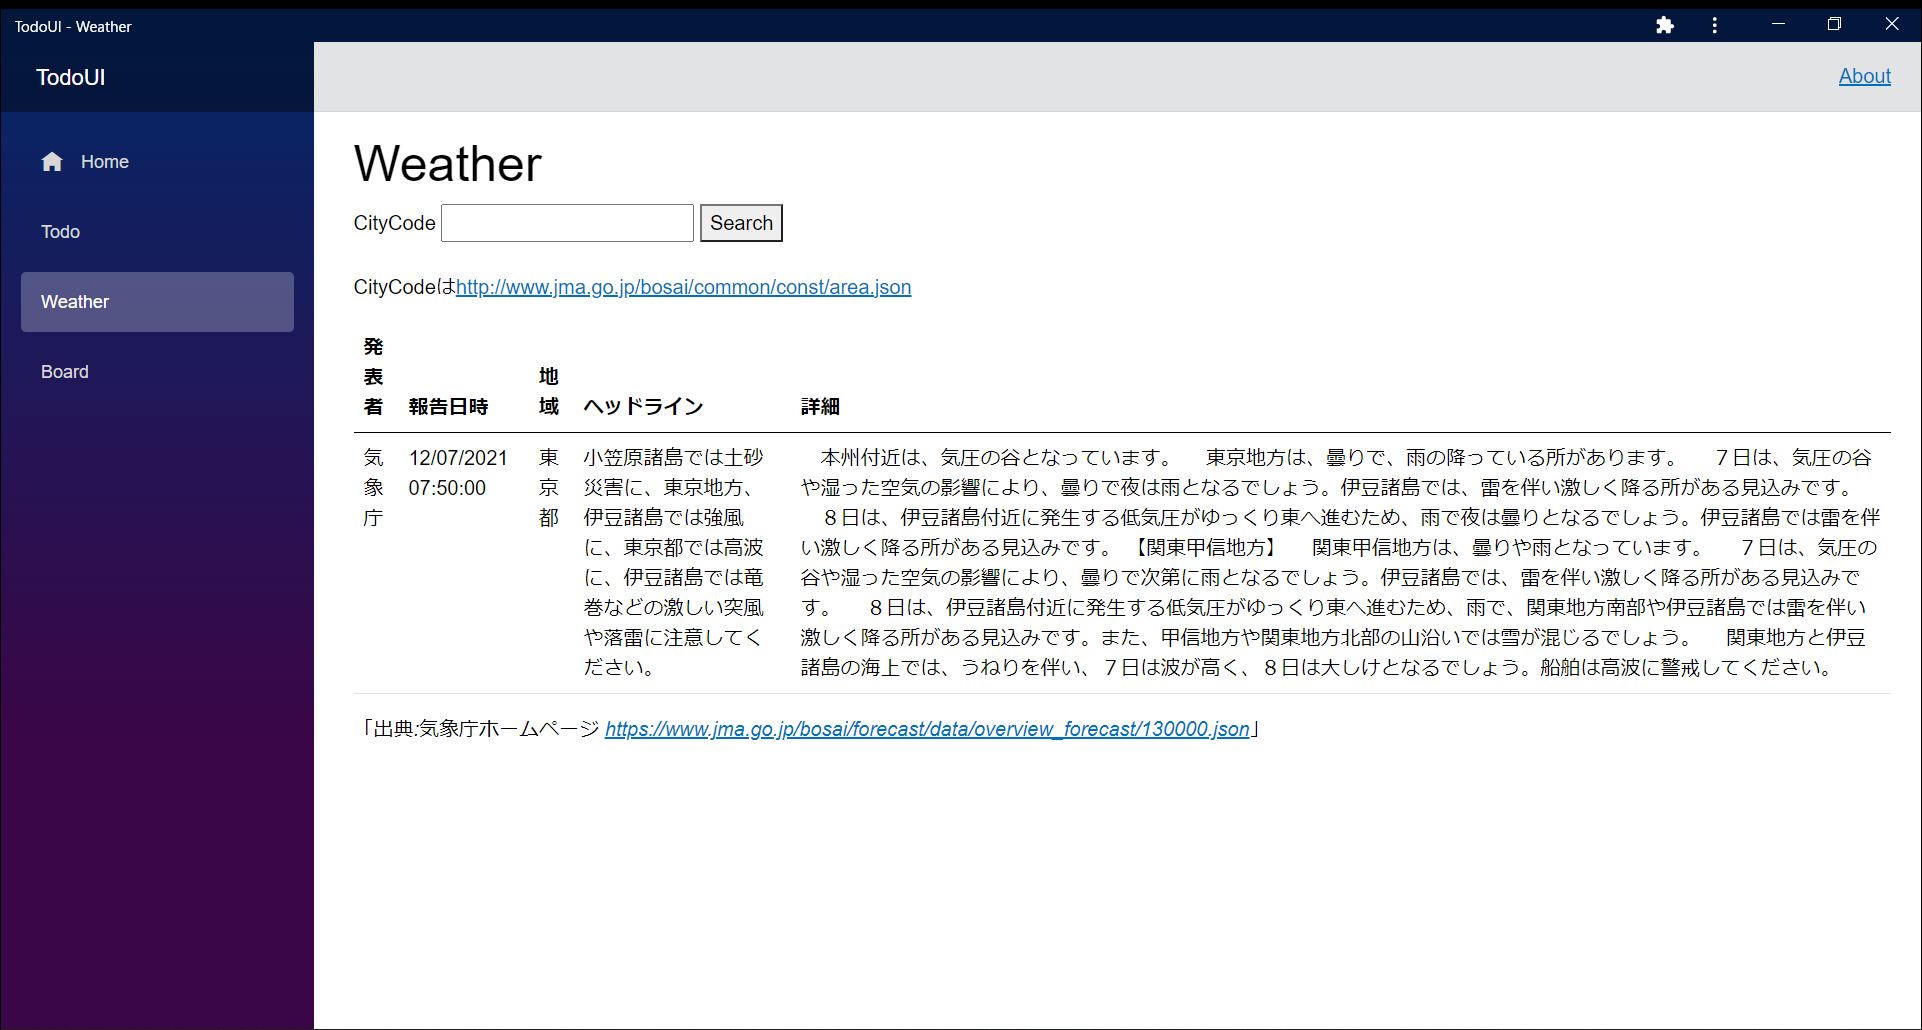
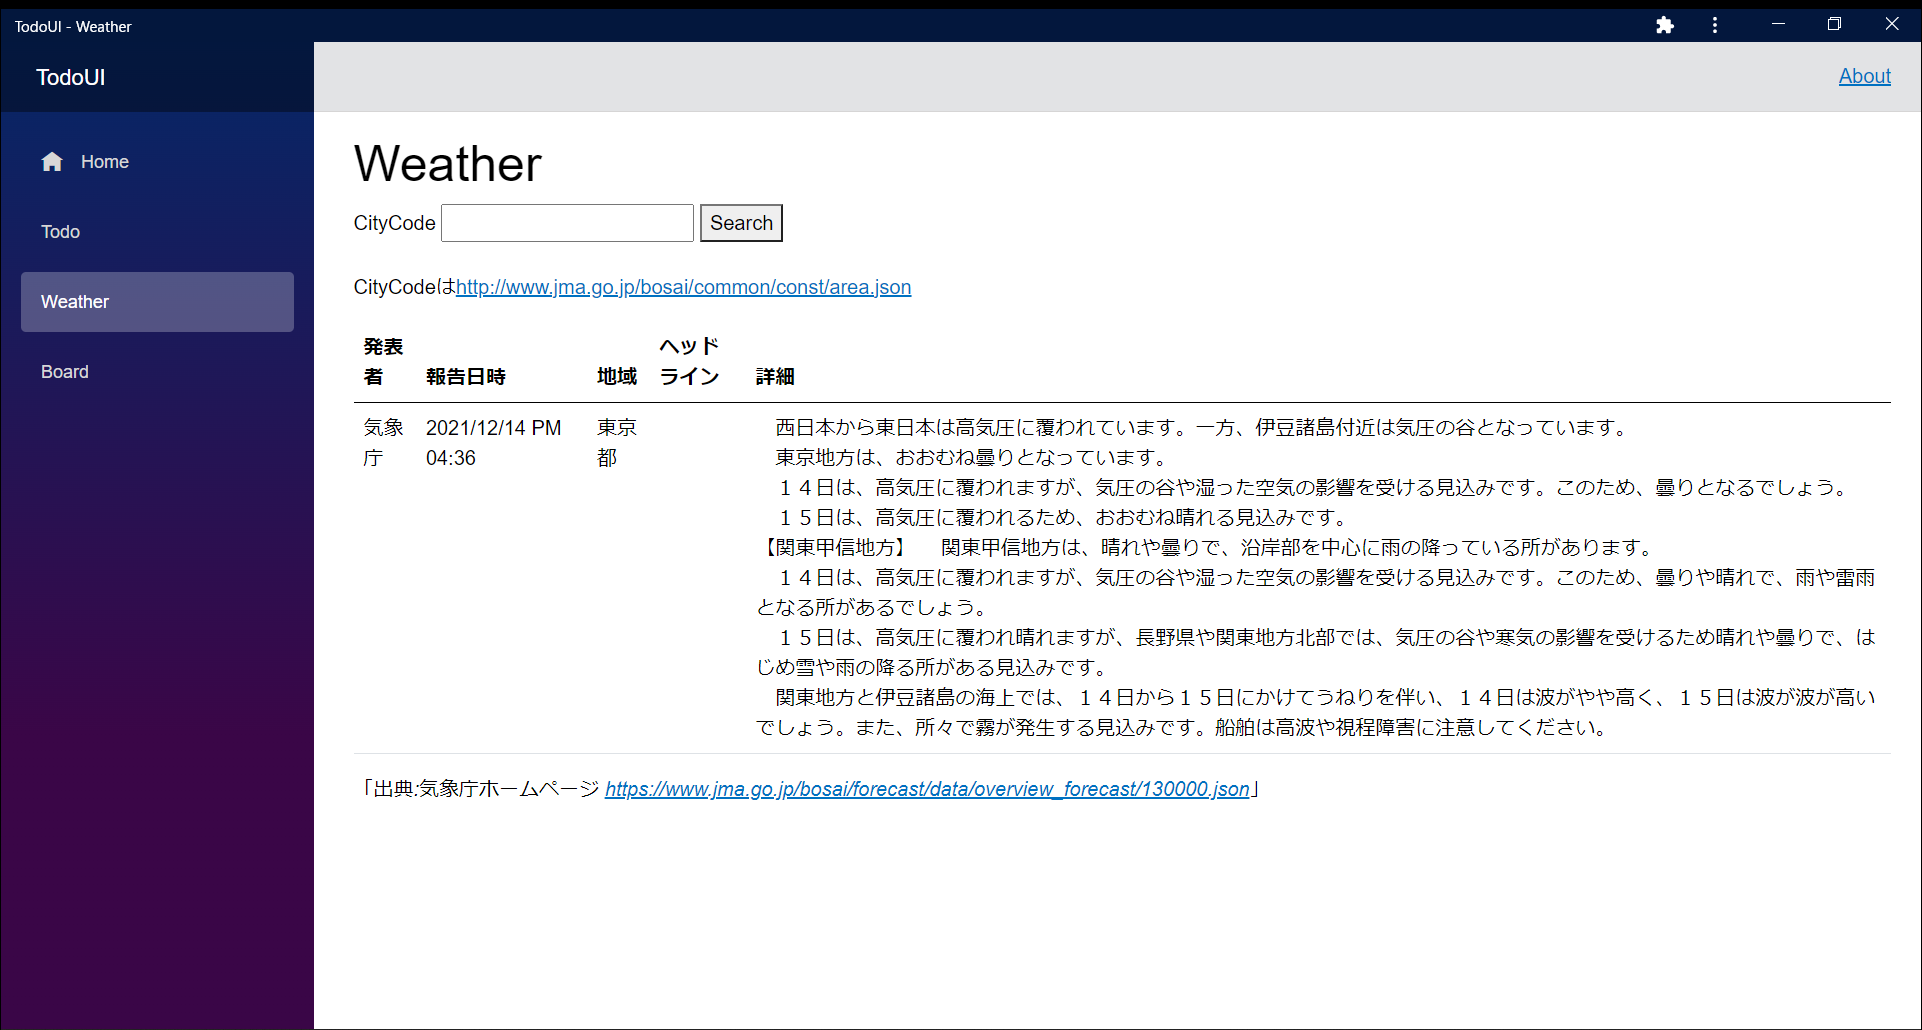
Weather Page Client Time Zone

diff --git a/TodoUI/wwwroot/clientIPAddr.js b/TodoUI/wwwroot/clientIPAddr.js
@@ -1,7 +1,3 @@
-export function clientTimezoneOffset() {
-    return new Date().getTimezoneOffset();
-}
-
 export function clientIPAddr() {
     return fetch('https://jsonip.com/')
         .then((response) => response.json())

diff --git a/TodoUI/wwwroot/clientTimezoneOffset.js b/TodoUI/wwwroot/clientTimezoneOffset.js
@@ -1,0 +1,3 @@
+export function clientTimezoneOffset() {
+    return new Date().getTimezoneOffset();
+}

diff --git a/TodoUI/Pages/Board.razor.cs b/TodoUI/Pages/Board.razor.cs
@@ -10,19 +10,19 @@ public class BoardBase : ComponentBase
 
     [Inject]
     IJSRuntime? JSRuntime { get; set; }
-    public TimeSpan? timeSpan;
+    public TimeSpan? timeSpan { get; set; } = null;
 
     protected override async Task OnAfterRenderAsync(bool firstRender)
     {
         if (firstRender)
         {
-            var module = await JSRuntime.InvokeAsync<IJSObjectReference>("import", "./Pages/Board.razor.js");
-            var Offset = await module.InvokeAsync<int>("clientTimezoneOffset");
+            var offsetModule = await JSRuntime.InvokeAsync<IJSObjectReference>("import", "./clientTimezoneOffset.js");
+            var Offset = await offsetModule.InvokeAsync<int>("clientTimezoneOffset");
 
             timeSpan = TimeSpan.FromMinutes(-Offset);
 
-
-            IPAddress = await module.InvokeAsync<string>("clientIPAddr");
+            var clientIPModule = await JSRuntime.InvokeAsync<IJSObjectReference>("import", "./clientIPAddr.js");
+            IPAddress = await clientIPModule.InvokeAsync<string>("clientIPAddr");
 
             if (String.IsNullOrWhiteSpace(IPAddress))
             {

diff --git a/TodoUI/Pages/WeatherPage.razor.cs b/TodoUI/Pages/WeatherPage.razor.cs
@@ -1,0 +1,23 @@
+using Microsoft.AspNetCore.Components;
+using Microsoft.JSInterop;
+
+namespace TodoUI.Pages;
+public class WeatherPageBase : ComponentBase
+{
+    [Inject]
+    IJSRuntime? JSRuntime { get; set; }
+    public TimeSpan? timeSpan { get; set; } = null;
+
+    protected override async Task OnAfterRenderAsync(bool firstRender)
+    {
+        if (firstRender)
+        {
+            var offsetModule = await JSRuntime.InvokeAsync<IJSObjectReference>("import", "./clientTimezoneOffset.js");
+            var Offset = await offsetModule.InvokeAsync<int>("clientTimezoneOffset");
+
+            timeSpan = TimeSpan.FromMinutes(-Offset);
+
+            StateHasChanged();
+        }
+    }
+}

diff --git a/TodoUI/Data/Weather.cs b/TodoUI/Data/Weather.cs
@@ -4,7 +4,7 @@ public class Weather
 {
 
     public string? publishingOffice { get; set; }
-    public DateTime reportDatetime { get; set; }
+    public DateTimeOffset reportDatetime { get; set; }
     public string? targetArea { get; set; }
     public string? headlineText { get; set; }
     public string? text { get; set; }
